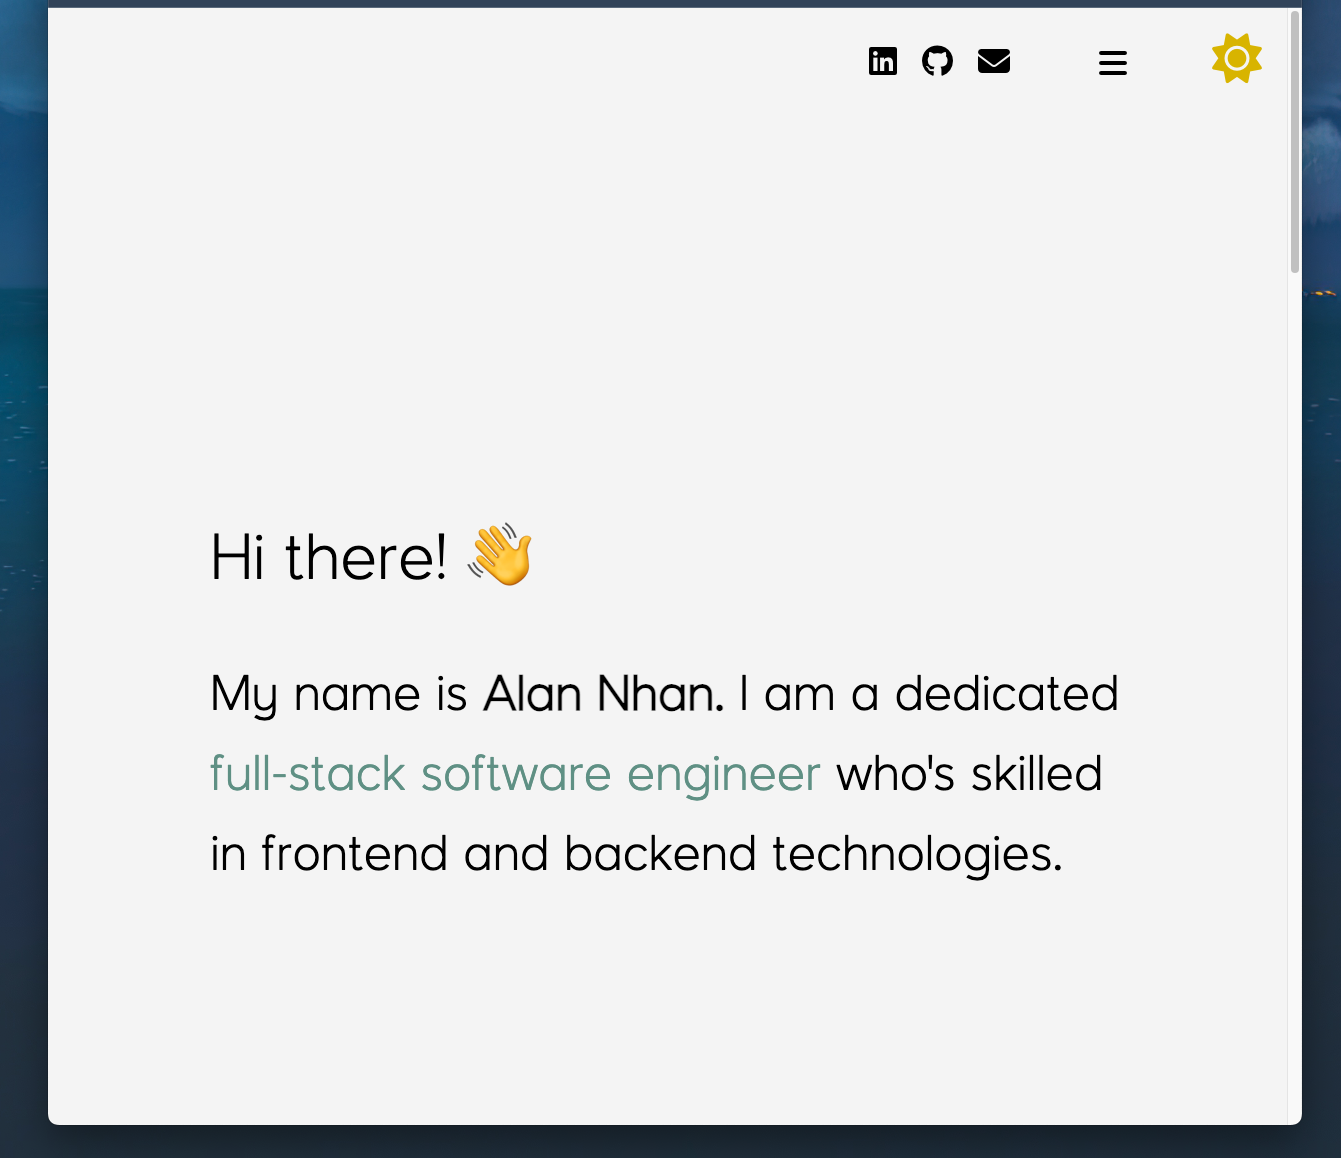
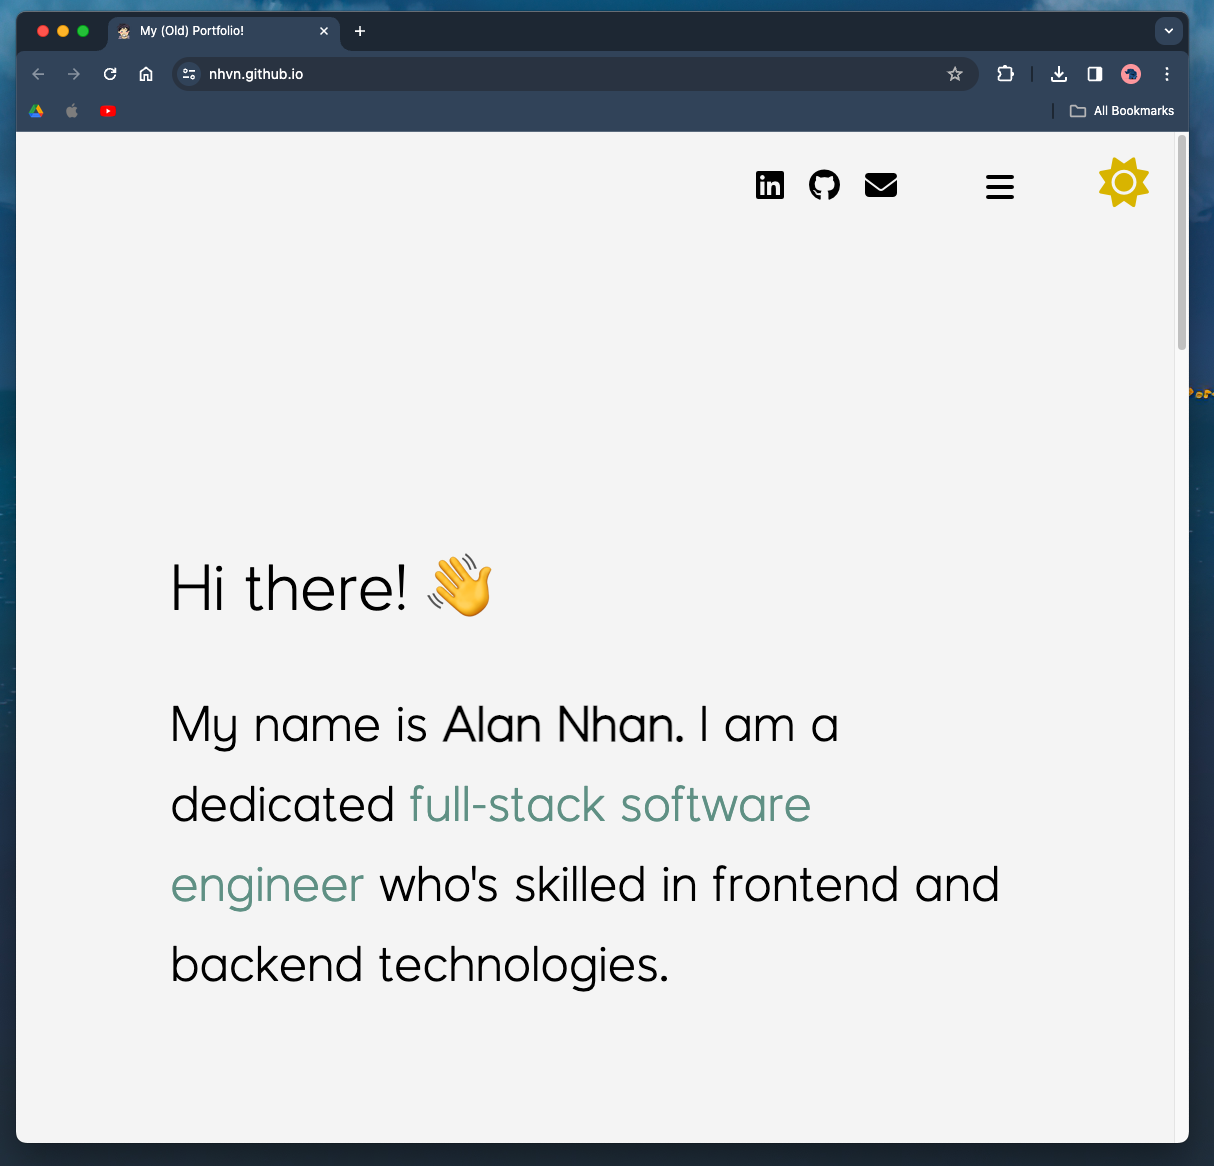
Made font fixes across different content

diff --git a/src/ProjPage.js b/src/ProjPage.js
@@ -19,7 +19,7 @@ export const projects = [
     method: 'My approach was iterative and user-centric. I started with low-fidelity wireframes, gradually refining them based on user feedback and usability testing. I also considered the latest design trends and best practices, ensuring the design was both contemporary and intuitive.',
     resultsImage: '/img/comingSoon.png',
     results: 'The final design effectively balanced functionality and aesthetics. It provided users with a clear and easy-to-navigate interface, improving task management efficiency. The design was well-received by users, demonstrating the effectiveness of the user-centric design approach.',
-    finalThoughts: 'This project reinforced the importance of user-centric design and iterative development. It was a rewarding experience that highlighted the impact of good design on user experience. I look forward to applying these insights to future projects. 😊',
+    finalThoughts: 'This project reinforced the importance of user-centric design and iterative development. It was a rewarding experience that highlighted the impact of good design on user experience. I look forward to applying these insights to future projects.',
     codeLink: 'https://github.com/nhvn/to-do-list',
     liveLink: ''
   },

diff --git a/src/index.css b/src/index.css
@@ -323,11 +323,8 @@ footer {
   .home, .title {
     margin-bottom: 0;
   }
-  .home p, .about p{
+  .home p, .about p, .projects-box p, .proj-content-container .right-proj p{
     font-size: 18px;
-  }
-  .projects-box p, .proj-content-container .right-proj p {
-    font-size: 12px;
   }
 }
 @media screen and (max-width: 1000px) {
@@ -560,9 +557,6 @@ footer {
   }
   .proj-content-container .left-proj {
     margin-bottom: 20px;
-  }
-  .proj-content-container .right-proj p, .header p{
-    font-size: 12px;
   }
   .proj-content-container {
     display: block;
